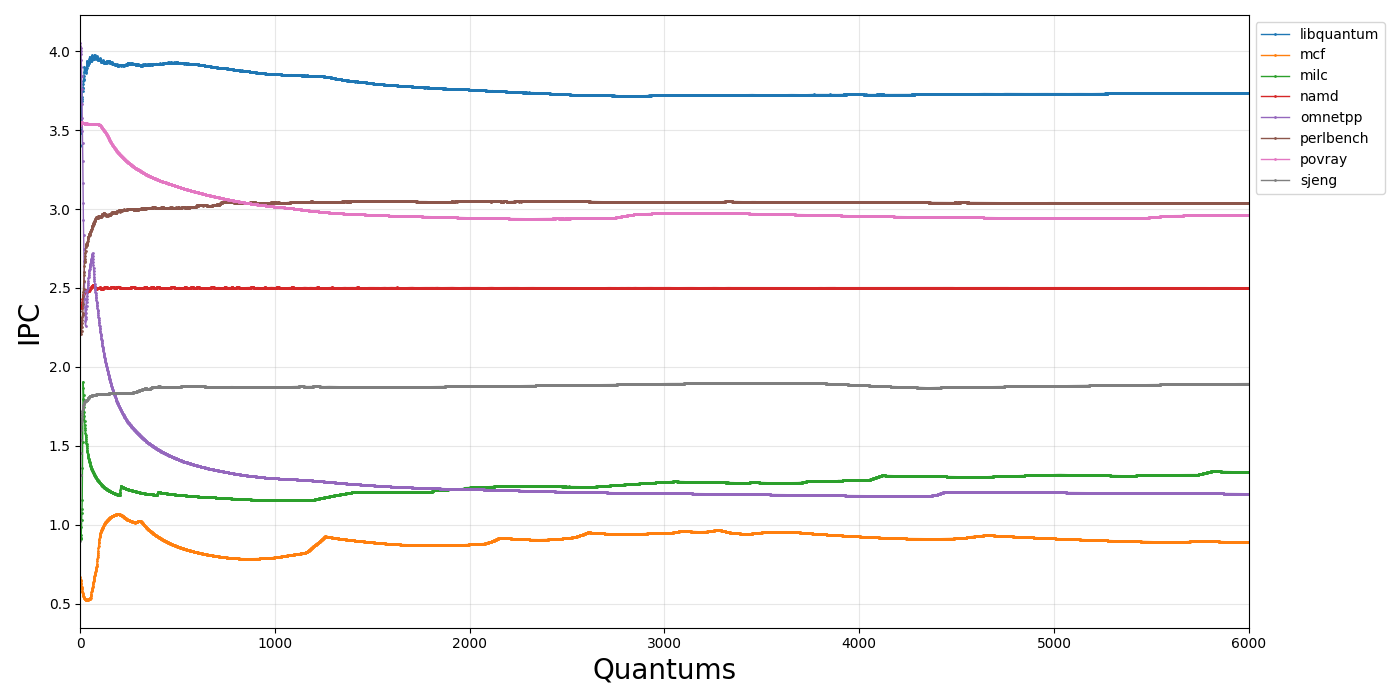
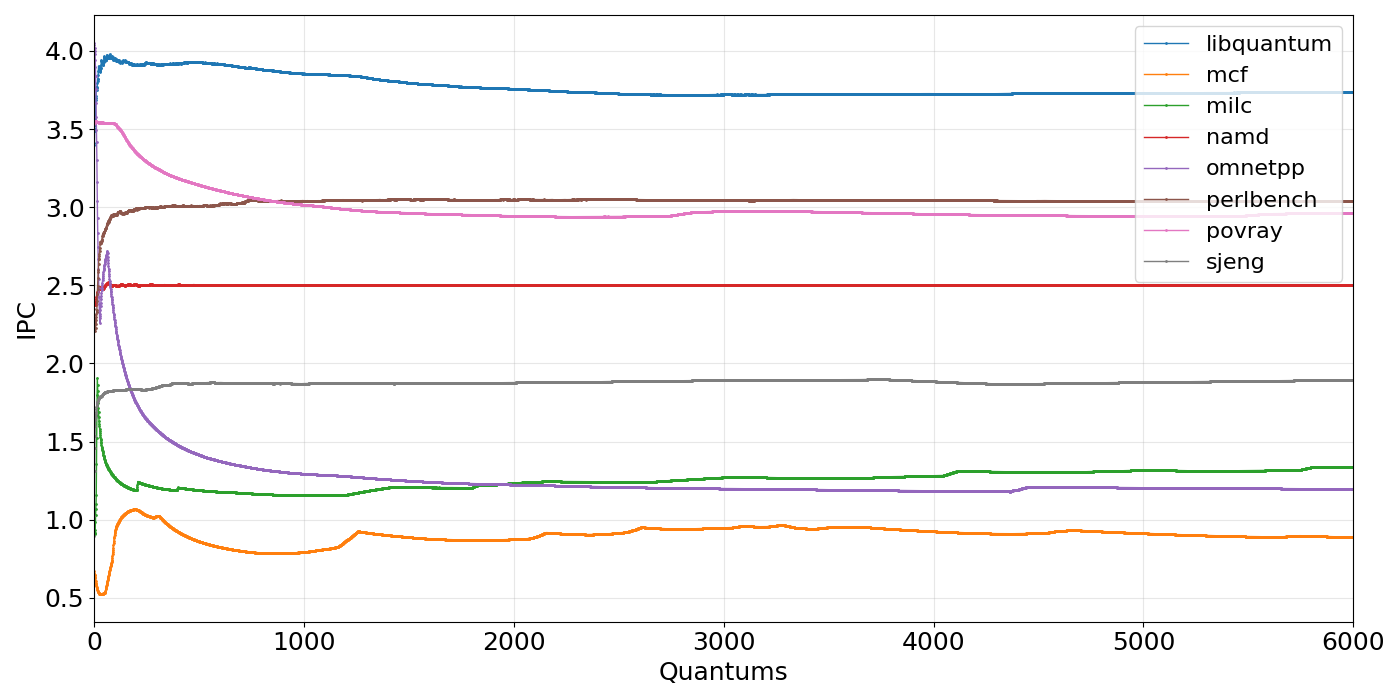
mas commits

diff --git a/graficar.py b/graficar.py
@@ -59,7 +59,7 @@ def main():
             plt.yticks(fontsize=18)
             plt.grid(True, alpha=0.3)
             plt.xlim(0, 6000)
-            plt.legend(loc='outside upper center', fontsize=16)
+            plt.legend(loc='upper right', bbox_to_anchor=(1, 1), fontsize=16)
             plt.tight_layout()
             
             # Guardar figura
